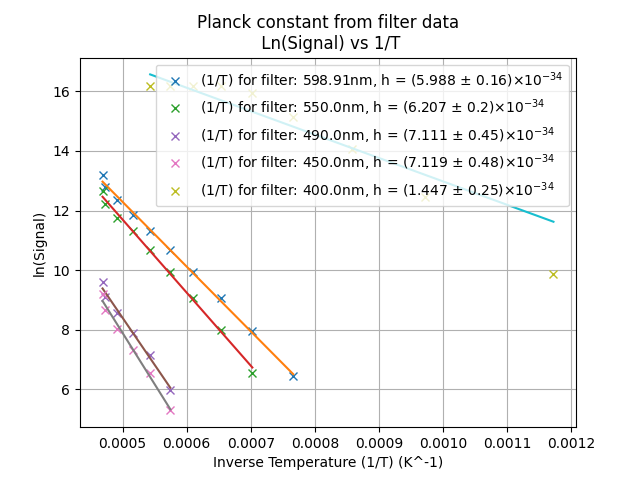
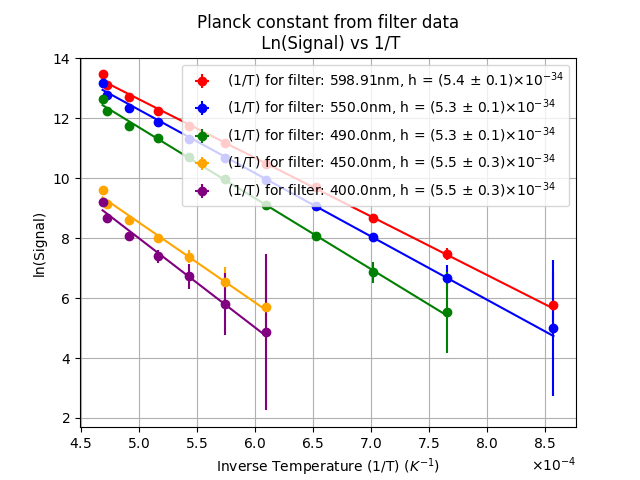
gain thing sorted

diff --git a/cal_h_from_filter_data_voltage.py b/cal_h_from_filter_data_voltage.py
@@ -4,6 +4,7 @@
 # importing 
 import numpy as np
 import matplotlib.pyplot as plt
+from matplotlib.ticker import ScalarFormatter
 import scipy.optimize as opt
 import functions as f
 from scipy.interpolate import CubicSpline
@@ -35,7 +36,7 @@ def reduce_by_first_nonzero(arr):
         # If there are no non-zero values, return the original array
         return arr
     
-    first_non_zero = non_zero_values[0]
+    first_non_zero = non_zero_values[0] + 1e-10
     
     # Subtract the first non-zero value from every element
     reduced_arr = arr - first_non_zero
@@ -46,12 +47,21 @@ def reduce_by_first_nonzero(arr):
 # importing the data
 data = np.loadtxt('data\\gain_photodetector.csv', delimiter=',', skiprows=1)
 
+# Create a ScalarFormatter object
+formatter = ScalarFormatter(useMathText=True)  # useMathText=True to use math text for scientific notation
+formatter.set_scientific(True)  # Enable scientific notation
+formatter.set_powerlimits((-1,1))  # You can adjust these limits based on your data
+
+# Apply the formatter to the y-axis
+plt.gca().xaxis.set_major_formatter(formatter)
+
 data_index = [2, 3, 4, 5, 6]
 uncert_index = [1, 1, 1, 1, 1]
+colors = ['red', 'blue', 'green', 'orange', 'purple']
 for i in range(len(data_index)):
     lambda1 = lambdas[i]
     lamp_current = data[:, 0]
-    lamp_current_uncert = np.array([0.0001 for _ in range(len(lamp_current))])  #    data[:, 1]   ################ need to measure this ################
+    lamp_current_uncert = np.array([0.0005 for _ in range(len(lamp_current))]) # this is the actual uncert
     filter1 = data[:, data_index[i]] * 1e3
     filter1 = reduce_by_first_nonzero(filter1)
     filter_uncert = data[:, uncert_index[i]] * 1e3
@@ -77,7 +87,7 @@ for i in range(len(data_index)):
     reduced_lamp_current_uncert = lamp_current_uncert[mask]
 
     # calculating
-    print(filter1)
+    # print(filter1)
     signal = np.log(filter1)
     filter_uncert = filter_uncert/filter1
     temperture = cs(reduced_lamp_current)
@@ -94,15 +104,15 @@ for i in range(len(data_index)):
 
     # plotting the data
     plt.title('Planck constant from filter data\n Ln(Signal) vs 1/T')
-    plt.plot(x_values, signal,'x', label='(1/T) for filter: ' + str(round_to_significant_figure(lambda1*1e9, 4)) + "nm, h = (" + str(round_to_significant_figure(h_measured*1e34,3)) + " $\pm$ " + str(round_to_significant_figure(h_measured_uncert*1e34,1)) + ')$\\times 10^{-34}$')
-    # plt.errorbar(x_values, filter1, yerr=abs(filter_uncert), xerr=x_values_uncert, fmt='o', label='(1/T) for filter: ' + str(round_to_significant_figure(lambda1*1e9, 4)) + "nm, h = (" + str(round_to_significant_figure(h_measured*1e34,3)) + " $\pm$ " + str(round_to_significant_figure(h_measured_uncert*1e34,1)) + ')$\\times 10^{-34}$')
-    # plt.errorbar(x_values, filter1, yerr=abs(filter_uncert), xerr=x_values_uncert, fmt='o', label="(1/T) for filter: {:.3f}, h = {:.3f} $\pm$ {:.1f} ".format(lambda1, h_measured, h_measured_uncert))
+    # plt.plot(x_values, signal,'x', label='(1/T) for filter: ' + str(round_to_significant_figure(lambda1*1e9, 4)) + "nm, h = (" + str(round_to_significant_figure(h_measured*1e34,3)) + " $\pm$ " + str(round_to_significant_figure(h_measured_uncert*1e34,1)) + ')$\\times 10^{-34}$')
+    plt.errorbar(x_values, signal, yerr=abs(filter_uncert), xerr=x_values_uncert, fmt='o', color=colors[i], label='(1/T) for filter: ' + str(round_to_significant_figure(lambda1*1e9, 4)) + "nm, h = (" + str(round_to_significant_figure(h_measured*1e34,1)) + " $\pm$ " + str(round_to_significant_figure(h_measured_uncert*1e34,0)) + ')$\\times 10^{-34}$')
+    # plt.errorbar(x_values, signal, yerr=abs(filter_uncert), xerr=x_values_uncert, fmt='o', label="(1/T) for filter: {:.3f}, h = {:.3f} $\pm$ {:.1f} ".format(lambda1, h_measured, h_measured_uncert))
 
-    plt.plot(x_values, f.linear_func(x_values,*optimal_params)) #, label='y = {:.2f}x + {:.2f}'.format(optimal_params[0], optimal_params[1]))
-    plt.xlabel('Inverse Temperature (1/T) (K^-1)')
+    plt.plot(x_values, f.linear_func(x_values,*optimal_params), color=colors[i]) #, label='y = {:.2f}x + {:.2f}'.format(optimal_params[0], optimal_params[1]))
+    plt.xlabel('Inverse Temperature (1/T) ($K^{-1}$)')
     plt.ylabel('ln(Signal)')
     
 plt.grid()
-plt.legend()
+plt.legend(loc=1)
 plt.savefig('graphs\\planck_constant_from_voltage_filter_data.png')
 plt.show()

diff --git a/cal_h_from_filter_data copy.py b/cal_h_from_filter_data copy.py
@@ -4,6 +4,7 @@
 # importing 
 import numpy as np
 import matplotlib.pyplot as plt
+from matplotlib.ticker import ScalarFormatter
 import scipy.optimize as opt
 import functions as f
 from scipy.interpolate import CubicSpline
@@ -36,6 +37,14 @@ def round_to_significant_figure(x, n):
 
 # importing the data
 data = np.loadtxt('data\\photodetector_data.csv', delimiter=',', skiprows=1)
+
+# Create a ScalarFormatter object
+formatter = ScalarFormatter(useMathText=True)  # useMathText=True to use math text for scientific notation
+formatter.set_scientific(True)  # Enable scientific notation
+formatter.set_powerlimits((-1,1))  # You can adjust these limits based on your data
+
+# Apply the formatter to the y-axis
+plt.gca().xaxis.set_major_formatter(formatter)
 
 data_index = [4, 6, 7, 8, 10]
 uncert_index = [5, 5, 5, 9, 9]
@@ -76,7 +85,7 @@ for i in range(5):
     # plt.errorbar(x_values, filter1, yerr=abs(filter_uncert), xerr=x_values_uncert, fmt='o', label="(1/T) for filter: {:.3f}, h = {:.3f} $\pm$ {:.1f} ".format(lambda1, h_measured, h_measured_uncert))
 
     plt.plot(x_values, linear(x_values,*optimal_params)) #, label='y = {:.2f}x + {:.2f}'.format(optimal_params[0], optimal_params[1]))
-    plt.xlabel('Lamp Current (A)')
+    plt.xlabel('Inverse Temperature (1/T) ($K^{-1}$)')
     plt.ylabel('ln(Signal)')
 plt.grid()
 plt.legend()
